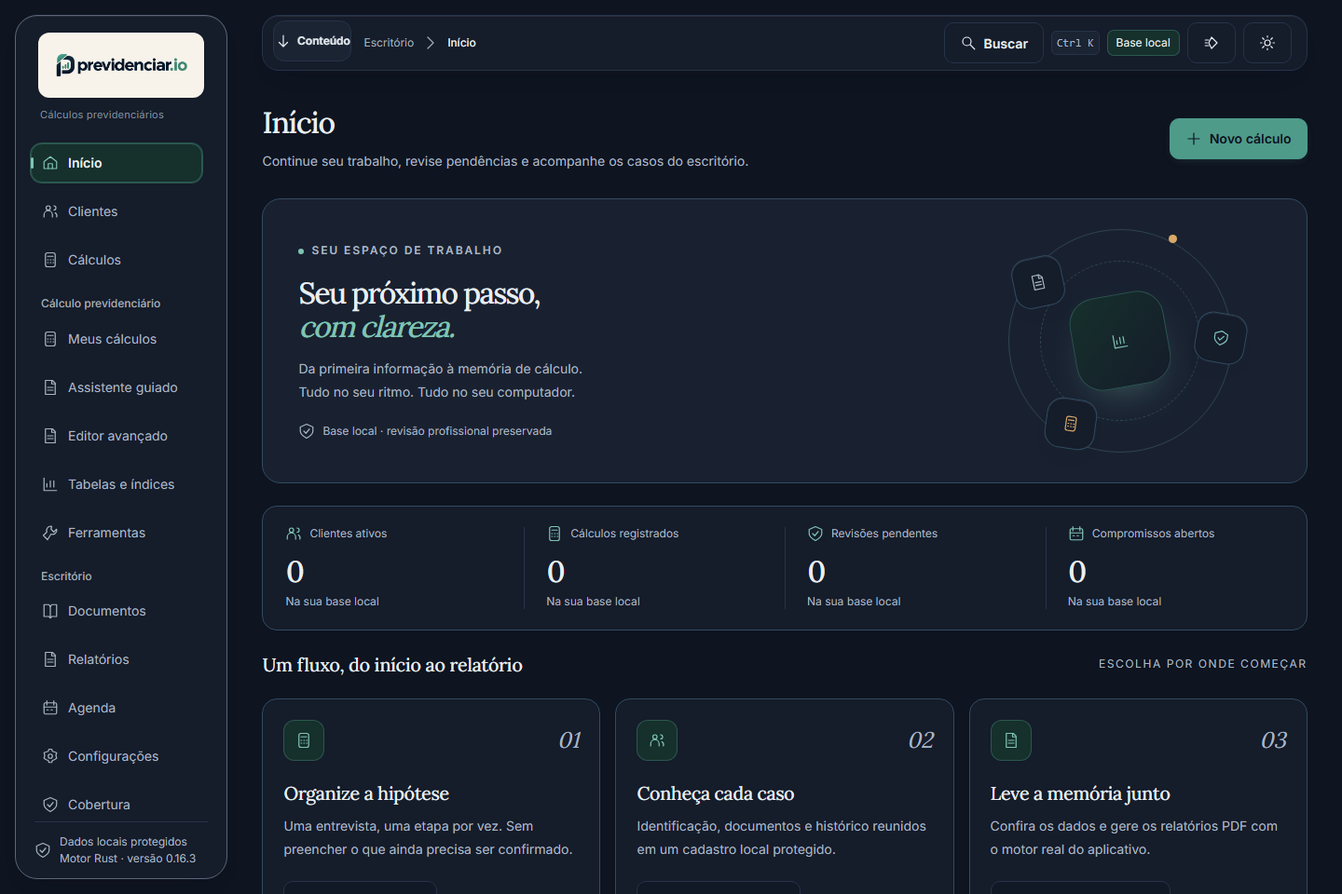
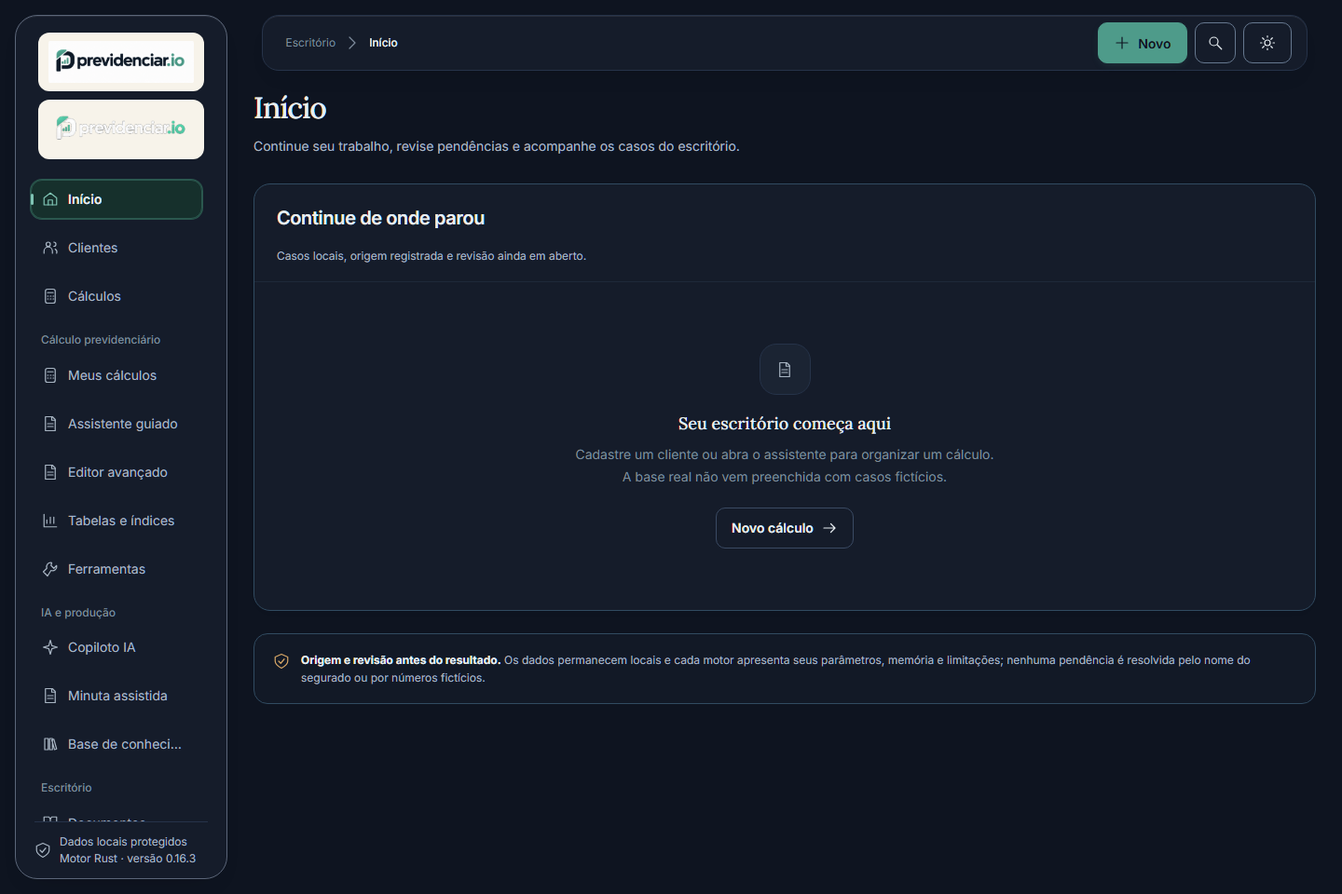
test: alinha a interface ao fluxo real do assistente e atualiza a captura do README

diff --git a/apps/desktop/src/App.tsx b/apps/desktop/src/App.tsx
@@ -36,7 +36,7 @@ async function saveTable(){if(!table)return;if(!table.name.trim()){failForm('Inf
 async function addLabels(){const next=structuredClone(w);for(const label of REFERENCE_LABELS){if(!next.reference_tables.some(t=>t.name===label)){const id=allocate(next);next.reference_tables.push({id,name:label,unit:'A confirmar',periodicity:'A confirmar',entries:[],provenance:'Rótulo observado; sem valores importados',verified:false});next.next_id=id+1}}try{await commit(next)}catch{/* shown */}}
 const selectedCase=w.calculations.find(c=>c.id===selected)??null;const openLoop=w.calculations.filter(c=>!c.archived&&c.id>0&&c.assistant?.mode==='assisted'&&!hasFinancialResult(c)).slice(-1)[0]??null;const resume=openLoop?assistantResume(openLoop):null;const clientRows=w.clients.filter(c=>(archived||!c.archived)&&[c.name,c.cpf,c.email,c.phone].join(' ').toLocaleLowerCase().includes(search.toLocaleLowerCase()));const caseRows=w.calculations.filter(c=>(page!=='rgps'||c.kind==='RGPS')&&(archived||!c.archived)&&(filterKind==='Todos os módulos'||c.kind===filterKind)&&[c.name,c.kind,c.status].join(' ').toLocaleLowerCase().includes(search.toLocaleLowerCase()));
 if(!ready)return <div className="loading-screen" role="status" aria-live="polite" data-od-id="initial-loading"><div className="brand-name">previdenciar.io</div><div className="busy-inline"><MotionLoader/>Abrindo a base local protegida...</div></div>;
-return <div className="previdenciar-app" data-od-id="previdenciar-shell"><a className="skip-link" aria-label="Ir para o conteúdo" title="Ir para o conteúdo" href="#main-content" data-od-id="skip-to-content" onClick={e=>{e.preventDefault();mainRef.current?.focus({preventScroll:true})}}><Icon name="arrow" size={18}/><span>Conteúdo</span></a><aside className="app-side" hidden={mobileLayout} data-od-id="desktop-navigation"><div className="brand-link"><img className="brand-logo brand-logo-light" src="/brand-logo-light.png" alt="previdenciar.io"/><img className="brand-logo brand-logo-dark" src="/brand-logo-dark.png" alt=""/></div><nav className="side-nav" aria-label="Navegação principal">{NAV.map(n=><div key={n.id}>{n.group&&<div className="nav-group">{n.group}</div>}<button className={'side-link '+(page===n.id?'active':'')} aria-current={page===n.id?'page':undefined} title={n.full??n.label} aria-label={n.full??n.label} data-od-id={'nav-'+n.id} onClick={()=>go(n.id)}>{page===n.id&&<NavIndicator id="desktop-active-page"/>}<Icon name={n.icon}/><span className="side-label">{n.label}</span></button></div>)}</nav><div className="side-foot"><Icon name="shield" size={18}/><span>Dados locais protegidos<br/>Motor Rust · versão {__APP_VERSION__}</span></div></aside><header className="top-chrome" data-od-id="office-toolbar"><span className="chrome-mobile-brand"><img src="/brand-icon.png" alt="" aria-hidden="true"/><span>previdenciar.io</span></span><div className="breadcrumb">Escritório<Icon name="chevron" size={13}/><strong>{NAV.find(n=>n.id===page)?.full??NAV.find(n=>n.id===page)?.label}</strong></div><span className="sr-only" role="status">{saving?'Salvando...':storageReady?'Base local':'Base indisponível'}</span><div className="chrome-actions" data-ui-actions><Button primary className="chrome-new" onClick={()=>start()}><Icon name="plus" size={17}/><span>Novo</span></Button><Button className="btn-icon" aria-label="Buscar no escritório" title="Buscar no escritório" onClick={()=>setPalette(true)}><Icon name="search" size={18}/></Button><Button aria-label="Alternar tema" aria-pressed={w.settings.light_theme} title={w.settings.light_theme?'Ativar tema escuro':'Ativar tema claro'} onClick={()=>{document.documentElement.dataset.themeSwitching='true';setW({...w,settings:{...w.settings,light_theme:!w.settings.light_theme}});setTimeout(()=>{delete document.documentElement.dataset.themeSwitching},260)}}><Icon name="sun" size={18}/></Button></div></header><main ref={mainRef} id="main-content" tabIndex={-1} className="app-content" data-od-id="main-workspace">{toast&&!toast.error&&<ToastMessage toast={toast} onClose={()=>setToast(null)}/>}<PageTransition className="page-wrap" key={page} pointer={routeMotion==='pointer'} page={page}><header className="page-head"><div><div className="eyebrow">{page==='wizard'?'Cálculo previdenciário':'Escritório · previdenciar.io'}</div><h1 tabIndex={-1} data-od-id={'heading-'+page}>{NAV.find(n=>n.id===page)?.full??NAV.find(n=>n.id===page)?.label}</h1><p>{DESCRIPTIONS[page]}</p></div><div className="head-actions" data-ui-actions>{(page==='cases'||page==='rgps')&&caseRows.length>0?<Button primary onClick={()=>start()}><Icon name="plus" size={17}/>Novo cálculo</Button>:page==='clients'&&clientRows.length>0?<Button primary onClick={()=>setClient(blankClient())}><Icon name="plus" size={17}/>Novo cliente</Button>:null}</div></header>{!storageReady&&<Notice tone="error">A base local não pôde ser aberta com segurança. Cadastros e gravações estão bloqueados; o arquivo existente não será sobrescrito.</Notice>}
+return <div className="previdenciar-app" data-od-id="previdenciar-shell"><a className="skip-link" aria-label="Ir para o conteúdo" title="Ir para o conteúdo" href="#main-content" data-od-id="skip-to-content" onClick={e=>{e.preventDefault();mainRef.current?.focus({preventScroll:true})}}><Icon name="arrow" size={18}/><span>Conteúdo</span></a><aside className="app-side" hidden={mobileLayout} data-od-id="desktop-navigation"><div className="brand-link"><img className="brand-logo brand-logo-light" src="/brand-logo-light.png" alt="previdenciar.io"/><img className="brand-logo brand-logo-dark" src="/brand-logo-dark.png" alt=""/></div><nav className="side-nav" aria-label="Navegação principal">{NAV.map(n=><div key={n.id}>{n.group&&<div className="nav-group">{n.group}</div>}<button className={'side-link '+(page===n.id?'active':'')} aria-current={page===n.id?'page':undefined} title={n.full??n.label} aria-label={n.full??n.label} data-od-id={'nav-'+n.id} onClick={()=>go(n.id)}>{page===n.id&&<NavIndicator id="desktop-active-page"/>}<Icon name={n.icon}/><span className="side-label">{n.label}</span></button></div>)}</nav><div className="side-foot"><Icon name="shield" size={18}/><span>Dados locais protegidos<br/>Motor Rust · versão {__APP_VERSION__}</span></div></aside><header className="top-chrome" data-od-id="office-toolbar"><span className="chrome-mobile-brand"><img src="/brand-icon.png" alt="" aria-hidden="true"/><span>previdenciar.io</span></span><div className="breadcrumb">Escritório<Icon name="chevron" size={13}/><strong>{NAV.find(n=>n.id===page)?.full??NAV.find(n=>n.id===page)?.label}</strong></div><span className="sr-only" role="status">{saving?'Salvando...':storageReady?'Base local':'Base indisponível'}</span><div className="chrome-actions" data-ui-actions><Button primary className="chrome-new" aria-label="Novo cálculo no escritório" title="Novo cálculo no escritório" onClick={()=>start()}><Icon name="plus" size={17}/><span>Novo</span></Button><Button className="btn-icon" aria-label="Buscar no escritório" title="Buscar no escritório" onClick={()=>setPalette(true)}><Icon name="search" size={18}/></Button><Button aria-label="Alternar tema" aria-pressed={w.settings.light_theme} title={w.settings.light_theme?'Ativar tema escuro':'Ativar tema claro'} onClick={()=>{document.documentElement.dataset.themeSwitching='true';setW({...w,settings:{...w.settings,light_theme:!w.settings.light_theme}});setTimeout(()=>{delete document.documentElement.dataset.themeSwitching},260)}}><Icon name="sun" size={18}/></Button></div></header><main ref={mainRef} id="main-content" tabIndex={-1} className="app-content" data-od-id="main-workspace">{toast&&!toast.error&&<ToastMessage toast={toast} onClose={()=>setToast(null)}/>}<PageTransition className="page-wrap" key={page} pointer={routeMotion==='pointer'} page={page}><header className="page-head"><div><div className="eyebrow">{page==='wizard'?'Cálculo previdenciário':'Escritório · previdenciar.io'}</div><h1 tabIndex={-1} data-od-id={'heading-'+page}>{NAV.find(n=>n.id===page)?.full??NAV.find(n=>n.id===page)?.label}</h1><p>{DESCRIPTIONS[page]}</p></div><div className="head-actions" data-ui-actions>{(page==='cases'||page==='rgps')&&caseRows.length>0?<Button primary onClick={()=>start()}><Icon name="plus" size={17}/>Novo cálculo</Button>:page==='clients'&&clientRows.length>0?<Button primary onClick={()=>setClient(blankClient())}><Icon name="plus" size={17}/>Novo cliente</Button>:null}</div></header>{!storageReady&&<Notice tone="error">A base local não pôde ser aberta com segurança. Cadastros e gravações estão bloqueados; o arquivo existente não será sobrescrito.</Notice>}
 {page==='home'&&openLoop&&resume&&<Panel title="Retomar revisão" subtitle="Um caso já começado, com o próximo passo identificado." actions={<Badge tone="review">Em aberto</Badge>}><div className="work-item"><span className="work-icon"><Icon name="calc"/></span><div className="work-copy"><strong>{openLoop.name}</strong><p>Você parou em “{resume.label}” · {resume.completed} de {resume.total} etapas registradas. Quando quiser, continue exatamente daqui.</p></div><Button primary onClick={()=>openCase(openLoop)}>Retomar de onde parei<Icon name="arrow" size={16}/></Button></div></Panel>}
 {page==='home'&&<><div className={'cockpit'+(w.appointments.filter(a=>!a.completed).length?'':' single')}><Panel title="Continue de onde parou" subtitle="Casos locais, origem registrada e revisão ainda em aberto." actions={w.calculations.filter(c=>!c.archived).length?<Button onClick={()=>go('cases')}>Ver cálculos<Icon name="arrow" size={15}/></Button>:undefined}>{w.calculations.filter(c=>!c.archived).length?w.calculations.filter(c=>!c.archived).slice(-5).reverse().map(c=><div className="work-item" key={c.id}><span className="work-icon"><Icon name="calc"/></span><div className="work-copy"><strong>{c.name}</strong><p>{c.kind} · {c.scenario}</p></div><Badge tone={hasFinancialResult(c)?'good':(c.result as {status?:string}|null)?.status==='blocked'?'error':/Rascunho|Dados conferidos/.test(c.status)?'neutral':'review'}>{hasFinancialResult(c)?'Calculado':(c.result as {status?:string}|null)?.status==='blocked'?'Bloqueado':'Revisão'}</Badge><Button aria-label={'Abrir '+c.name} onClick={()=>openCase(c)}><Icon name="arrow" size={17}/></Button></div>):<Empty title="Seu escritório começa aqui" description="Cadastre um cliente ou abra o assistente para organizar um cálculo. A base real não vem preenchida com casos fictícios." action={<Button primary onClick={()=>start()}>Novo cálculo<Icon name="arrow" size={16}/></Button>}/>}</Panel><div className="cockpit-stack"><Panel title="Próximos compromissos">{w.appointments.filter(a=>!a.completed).slice(0,3).map(a=><div className="work-item" key={a.id}><Icon name="calendar" size={18}/><div className="work-copy"><strong>{a.title}</strong><p>{a.date} · {a.time}</p></div></div>)}{w.appointments.filter(a=>!a.completed).length===0&&<p className="secondary-line">Nenhum compromisso aberto.</p>}{w.appointments.filter(a=>!a.completed).length>0&&<Button onClick={()=>go('agenda')}>Abrir agenda<Icon name="arrow" size={15}/></Button>}</Panel></div></div>{w.calculations.some(c=>!c.archived)&&<DashboardOverview workspace={w} onStart={()=>start()} onClient={()=>setClient(blankClient())} onReports={()=>go('reports')}/>}<div className="quiet-banner"><Icon name="shield"/><p><strong>Origem e revisão antes do resultado.</strong> Os dados permanecem locais e cada motor apresenta seus parâmetros, memória e limitações; nenhuma pendência é resolvida pelo nome do segurado ou por números fictícios.</p></div></>}
 {page==='clients'&&<><div className="toolbar"><Search value={search} onChange={setSearch} placeholder="Pesquisar nome, CPF, e-mail ou telefone"/><label className="checkline"><input type="checkbox" checked={archived} onChange={e=>setArchived(e.target.checked)}/>Incluir arquivados</label><span className="count">{clientRows.length} clientes</span></div>{clientRows.length?<div className="table-wrap"><table className="data-table"><thead><tr><th>Cliente</th><th>CPF / CNPJ</th><th>Contato</th><th>Cálculos</th><th>Situação</th><th>Ações</th></tr></thead><tbody>{clientRows.map(c=><tr key={c.id}><td><strong>{c.name}</strong><div className="secondary-line">{c.birth_date||'Nascimento não informado'}</div></td><td>{c.cpf||'Sem dado'}</td><td>{c.email||'Sem dado'}<div className="secondary-line">{c.phone}</div></td><td>{w.calculations.filter(x=>x.client_id===c.id&&!x.archived).length}</td><td><Badge tone={c.archived?'neutral':'good'}>{c.archived?'Arquivado':'Ativo'}</Badge></td><td><div className="row-actions" data-ui-actions><Button onClick={()=>setClient(structuredClone(c))}>Editar</Button><Button onClick={()=>{setDraft({...blankCase(),client_id:c.id,identity:{...blankCase().identity,full_name:c.name,cpf:c.cpf||null,birth_date:c.birth_date?isoDate(c.birth_date):null},sex:c.sex});setSelected(null);go('wizard')}}>Novo cálculo</Button><Button onClick={()=>void archiveClient(c)}>{c.archived?'Reativar':'Arquivar'}</Button></div></td></tr>)}</tbody></table></div>:<Panel title="Cadastro de clientes"><Empty title={search?'Nenhum cliente encontrado':'Nenhum cliente cadastrado'} description="Inclua um cliente para vincular suas simulações, documentos e compromissos." action={<Button primary onClick={()=>setClient(blankClient())}>Novo cliente</Button>}/></Panel>}</>}

diff --git a/apps/desktop/tests/e2e/robot-entry.spec.ts b/apps/desktop/tests/e2e/robot-entry.spec.ts
@@ -2,5 +2,22 @@ import{test,expect}from'@playwright/test';import{blankWorkspace,blankCase,blankI
 async function bridge(page:import('@playwright/test').Page){const w=blankWorkspace();await page.addInitScript(workspace=>{let saved=workspace;const identity={full_name:'Pessoa Fictícia Robô UI',cpf:null,nit:null,birth_date:'1962-03-10',mother_name:null};const cnis={metadata:{page_count:1,source_sha256:null,extractor:'Synthetic UI fixture'},identity,salary_entries:[{competence:'2020-01',amount_centavos:200000,indicators:['PRPPS'],link_sequence:1,source:{page:1,line:1,index:1},excluded_from_validated_domain:true}],salary_months:{'2020-01':{count:1,amount_sum_centavos:200000,contains_unresolved_prpps:true}},links:[{sequence:1,raw_employer:'EMPREGADOR FICTÍCIO',start_date:'2020-01-01',end_date:null,prpps:true,indicators:['PRPPS'],reported_last_salary_month:'2020-01',inferred_last_salary_end:{date_candidate:'2020-01-31',requires_confirmation:true},source:{page:1}}],benefits:[],warnings:[{code:'unresolved_prpps',message:'Synthetic',count:1}],findings:[]};Object.defineProperty(window,'__TAURI_INTERNALS__',{value:{invoke:async(cmd:string,args:Record<string,unknown>)=>{if(cmd==='bootstrap')return{workspace:saved,storage_ready:true,message:null};if(cmd==='save_workspace'){saved={...(args.workspace as typeof workspace),revision:saved.revision+1};return saved}if(cmd==='pick_import_cnis'||cmd==='import_cnis_path')return cnis;if(cmd==='calculate_case')return{status:'blocked',data:null,blockers:[{message:'PRPPS e datas abertas exigem revisão documental.'}],warnings:['Synthetic UI IPC fixture; not a Rust computation']};throw new Error('Unexpected test command '+cmd)}}});},w)}
 async function start(page:import('@playwright/test').Page){await bridge(page);await page.goto('/',{waitUntil:'domcontentloaded'});await page.getByRole('button',{name:'Meus cálculos',exact:true}).click();await page.getByRole('button',{name:'Novo cálculo',exact:true}).click();await expect(page.getByRole('dialog',{name:'Novo cálculo'})).toBeVisible();await page.screenshot({path:'verification/ui-new-calculation-assistant-choice.png',fullPage:true});await page.getByRole('button',{name:'Usar o assistente de cálculos',exact:true}).click();await expect(page.getByText(/Olá! Sou seu assistente/)).toBeVisible();}
 test('requested exact entry is visible, calm interview starts only after choosing the assistant',async({page})=>{await start(page);await expect(page.getByRole('button',{name:'Prosseguir',exact:true})).toBeDisabled();await page.getByLabel('Nome do cálculo',{exact:true}).fill('Teste Sintético Robô');await page.getByRole('button',{name:'Prosseguir',exact:true}).click();await expect(page.getByRole('button',{name:/Não, o segurado não está recebendo benefício/})).toBeVisible();await page.screenshot({path:'verification/ui-robot-benefit-question.png',fullPage:true});});
-test('CNIS-shaped fixture is imported then requires unknown facts, all later panels and blocks are exercised',async({page})=>{await start(page);await page.getByLabel('Nome do cálculo',{exact:true}).fill('Teste Sintético Importação Robô');await page.getByRole('button',{name:'Prosseguir',exact:true}).click();await page.getByRole('button',{name:/Não, o segurado não está recebendo benefício/}).click();await page.getByRole('button',{name:/Sim, desejo importar dados do INSS/}).click();await page.getByRole('button',{name:/Selecionar CNIS PDF/}).click();await expect(page.getByRole('button',{name:'Aplicar CNIS e continuar',exact:true})).toBeVisible();await page.screenshot({path:'verification/ui-robot-cnis-review-synthetic.png',fullPage:true});await page.getByRole('button',{name:'Aplicar CNIS e continuar',exact:true}).click();await page.getByRole('button',{name:/Simular um novo benefício/}).click();await page.getByRole('button',{name:/Calcular um novo benefício/}).click();await expect(page.getByLabel('Sexo cadastral do segurado')).toHaveValue('');await expect(page.getByLabel('Deficiência na DIB')).toHaveValue('');await expect(page.getByRole('button',{name:'Prosseguir para a conferência',exact:true})).toBeDisabled();await page.screenshot({path:'verification/ui-robot-parameters-missing.png',fullPage:true});await page.getByLabel('Sexo cadastral do segurado').selectOption('Feminino');await page.getByLabel('Deficiência na DIB').selectOption('Sem deficiência declarada');await page.getByRole('button',{name:'Prosseguir para a conferência',exact:true}).click();await expect(page.getByText('PRPPS / CTC pendente',{exact:true})).toBeVisible();await page.getByRole('button',{name:'Conferir remunerações',exact:true}).click();await page.getByRole('button',{name:'Conferir opções da RMI',exact:true}).click();await page.getByRole('button',{name:'Revisar entrevista',exact:true}).click();await expect(page.getByRole('button',{name:'Ir para a execução',exact:true})).toBeDisabled();await page.getByRole('checkbox',{name:/Conferi as respostas/}).check();await page.getByRole('button',{name:'Ir para a execução',exact:true}).click();await page.getByRole('button',{name:/Executar cálculo da hipótese/}).click();await expect(page.getByRole('heading',{name:'Execução bloqueada'})).toBeVisible();await expect(page.getByText('PRPPS e datas abertas exigem revisão documental.',{exact:true})).toBeVisible();await page.screenshot({path:'verification/ui-robot-reviewed-blocked.png',fullPage:true});});
-test('already saved assisted case resumes, manual entry still available and drafting retains interview',async({page})=>{const workspace=blankWorkspace();const c={...blankCase(),id:1,name:'Entrevista Sintética Salva',assistant:{...blankInterview(),current_benefit_received:false,import_requested:false,process_kind:'Simulação do benefício',goal:'Calcular um novo benefício',review_confirmed:false,completed_steps:['intro','benefit','import','process','goal']},identity:{full_name:'Pessoa Fictícia',cpf:null,nit:null,birth_date:'1962-03-10',mother_name:null}};workspace.calculations=[c];await page.addInitScript(w=>Object.defineProperty(window,'__TAURI_INTERNALS__',{value:{invoke:async(cmd:string,args:Record<string,unknown>)=>cmd==='bootstrap'?{workspace:w,storage_ready:true,message:null}:cmd==='save_workspace'?{...(args.workspace as typeof w),revision:1}:null}}),workspace);await page.goto('/',{waitUntil:'domcontentloaded'});await page.getByRole('button',{name:'Abrir Entrevista Sintética Salva',exact:true}).click();await expect(page.getByLabel('Sexo cadastral do segurado')).toHaveValue('');await page.getByRole('button',{name:'Salvar rascunho',exact:true}).click();await expect(page.getByText('Alterações salvas na base local protegida.',{exact:true})).toBeVisible();await page.getByRole('button',{name:'Abrir editor de dados',exact:true}).click();await expect(page.getByRole('heading',{name:'Editor avançado',level:1})).toBeVisible();});
+test('CNIS-shaped fixture is imported then requires unknown facts, all later panels and blocks are exercised',async({page})=>{await start(page);await page.getByLabel('Nome do cálculo',{exact:true}).fill('Teste Sintético Importação Robô');await page.getByRole('button',{name:'Prosseguir',exact:true}).click();await page.getByRole('button',{name:/Não, o segurado não está recebendo benefício/}).click();await page.getByRole('button',{name:/Sim, desejo importar dados do INSS/}).click();await page.getByRole('button',{name:/Selecionar CNIS PDF/}).click();await expect(page.getByRole('button',{name:'Aplicar CNIS e continuar',exact:true})).toBeVisible();await page.screenshot({path:'verification/ui-robot-cnis-review-synthetic.png',fullPage:true});await page.getByRole('button',{name:'Aplicar CNIS e continuar',exact:true}).click();await page.getByRole('button',{name:/Simular um novo benefício/}).click();await page.getByRole('button',{name:/Calcular um novo benefício/}).click();
+// O assistente mostra um parâmetro por tela: o sexo vem primeiro e a deficiência
+// só aparece depois de confirmar o sexo. A navegação segue esse fluxo real.
+const sex=page.getByLabel('Sexo cadastral do segurado');
+await expect(sex).toHaveValue('');await expect(page.getByLabel('Deficiência na DIB')).toHaveCount(0);
+await expect(page.getByRole('button',{name:'Confirmar e avançar',exact:true})).toBeDisabled();
+await page.screenshot({path:'verification/ui-robot-parameters-missing.png',fullPage:true});
+await sex.selectOption('Feminino');await page.getByRole('button',{name:'Confirmar e avançar',exact:true}).click();
+const disability=page.getByLabel('Deficiência na DIB');
+await expect(disability).toHaveValue('');await expect(page.getByLabel('Sexo cadastral do segurado')).toHaveCount(0);
+await expect(page.getByRole('button',{name:'Ir para a conferência',exact:true})).toBeDisabled();
+await disability.selectOption('Sem deficiência declarada');await page.getByRole('button',{name:'Ir para a conferência',exact:true}).click();
+await expect(page.getByText('PRPPS / CTC pendente',{exact:true})).toBeVisible();await page.getByRole('button',{name:'Conferir remunerações',exact:true}).click();await page.getByRole('button',{name:'Conferir opções da RMI',exact:true}).click();await page.getByRole('button',{name:'Revisar entrevista',exact:true}).click();await expect(page.getByRole('button',{name:'Ir para a execução',exact:true})).toBeDisabled();await page.getByRole('checkbox',{name:/Conferi as respostas/}).check();await page.getByRole('button',{name:'Ir para a execução',exact:true}).click();await page.getByRole('button',{name:/Executar cálculo da hipótese/}).click();await expect(page.getByRole('heading',{name:'Execução bloqueada'})).toBeVisible();await expect(page.getByText('PRPPS e datas abertas exigem revisão documental.',{exact:true})).toBeVisible();await page.screenshot({path:'verification/ui-robot-reviewed-blocked.png',fullPage:true});});
+test('already saved assisted case resumes, manual entry still available and drafting retains interview',async({page})=>{const workspace=blankWorkspace();const c={...blankCase(),id:1,name:'Entrevista Sintética Salva',assistant:{...blankInterview(),current_benefit_received:false,import_requested:false,process_kind:'Simulação do benefício',goal:'Calcular um novo benefício',review_confirmed:false,completed_steps:['intro','benefit','import','process','goal']},identity:{full_name:'Pessoa Fictícia',cpf:null,nit:null,birth_date:'1962-03-10',mother_name:null}};workspace.calculations=[c];await page.addInitScript(w=>Object.defineProperty(window,'__TAURI_INTERNALS__',{value:{invoke:async(cmd:string,args:Record<string,unknown>)=>cmd==='bootstrap'?{workspace:w,storage_ready:true,message:null}:cmd==='save_workspace'?{...(args.workspace as typeof w),revision:1}:null}}),workspace);await page.goto('/',{waitUntil:'domcontentloaded'});await page.getByRole('button',{name:'Abrir Entrevista Sintética Salva',exact:true}).click();await expect(page.getByLabel('Sexo cadastral do segurado')).toHaveValue('');await page.getByRole('button',{name:'Salvar rascunho',exact:true}).click();await expect(page.getByText('Alterações salvas na base local protegida.',{exact:true})).toBeVisible();
+// A retomada cai na etapa de parâmetro, um campo por tela. O rodapé com a
+// entrada manual só existe fora dessa etapa, então o fluxo real é concluir os
+// parâmetros pendentes antes de procurar o botão.
+await page.getByLabel('Sexo cadastral do segurado').selectOption('Feminino');await page.getByRole('button',{name:'Confirmar e avançar',exact:true}).click();await page.getByLabel('Deficiência na DIB').selectOption('Sem deficiência declarada');await page.getByRole('button',{name:'Ir para a conferência',exact:true}).click();await expect(page.getByRole('heading',{name:'Confirme as respostas da entrevista'})).toBeVisible();
+await page.getByRole('button',{name:'Abrir editor de dados',exact:true}).click();await expect(page.getByRole('heading',{name:'Editor avançado',level:1})).toBeVisible();});

diff --git a/apps/desktop/tests/e2e/pdf-export.spec.ts b/apps/desktop/tests/e2e/pdf-export.spec.ts
@@ -1,3 +1,3 @@
 import{test,expect}from'@playwright/test';import{blankWorkspace,blankCase,blankInterview}from'../../src/model';
-test('end of assistant exposes detailed PDF formats and explicit private export through IPC',async({page})=>{const w=blankWorkspace();w.calculations=[{...blankCase(),id:1,name:'Teste Sintético PDF Final',assistant:{...blankInterview(),current_benefit_received:false,import_requested:false,process_kind:'Simulação do benefício',goal:'Calcular um novo benefício',review_confirmed:true,completed_steps:['intro','benefit','import','process','goal','parameters','periods','salaries','policy','review','result']},result:{status:'experimental',data:{native_result:{resumo:{rmi:'1600.00'},memoria:[]}},warnings:[]}}];await page.addInitScript(workspace=>{Object.defineProperty(window,'__TAURI_INTERNALS__',{value:{invoke:async(cmd:string,args:Record<string,unknown>)=>{if(cmd==='bootstrap')return{workspace,storage_ready:true,message:null};if(cmd==='export_report'){(window as unknown as {__pdfTestArgs:unknown}).__pdfTestArgs=args;return'C:\\destino-sintetico\\relatorio.pdf'}throw new Error('Unexpected test command '+cmd)}}})},w);await page.goto('/',{waitUntil:'domcontentloaded'});await page.getByRole('button',{name:'Abrir Teste Sintético PDF Final',exact:true}).click();await expect(page.getByRole('heading',{name:'Relatórios detalhados em PDF'})).toBeVisible();const select=page.getByLabel('Tipo de relatório PDF');await expect(select).toHaveValue('pdf_detailed');await expect(select.locator('option')).toHaveCount(8);await expect(select.locator('option',{hasText:'Qualidade de segurado'})).toHaveCount(1);await expect(select.locator('option[value="pdf_quality"]')).toHaveCount(1);await page.getByRole('button',{name:'Gerar relatório PDF detalhado'}).click();await expect(page.getByText('Relatório completo gerado localmente. Confira os avisos e o estado da hipótese.',{exact:true})).toBeVisible();const args=await page.evaluate(()=>((window as unknown as {__pdfTestArgs:unknown}).__pdfTestArgs))as {format:string;includePersonal:boolean};expect(args.format).toBe('pdf_detailed');expect(args.includePersonal).toBe(false);await page.screenshot({path:'verification/ui-assistant-final-pdf.png',fullPage:true});});
+test('end of assistant exposes detailed PDF formats and explicit private export through IPC',async({page})=>{const w=blankWorkspace();w.calculations=[{...blankCase(),id:1,name:'Teste Sintético PDF Final',assistant:{...blankInterview(),current_benefit_received:false,import_requested:false,process_kind:'Simulação do benefício',goal:'Calcular um novo benefício',review_confirmed:true,completed_steps:['intro','benefit','import','process','goal','parameters','periods','salaries','policy','review','result']},result:{status:'experimental',data:{native_result:{resumo:{rmi:'1600.00'},memoria:[]}},warnings:[]}}];await page.addInitScript(workspace=>{Object.defineProperty(window,'__TAURI_INTERNALS__',{value:{invoke:async(cmd:string,args:Record<string,unknown>)=>{if(cmd==='bootstrap')return{workspace,storage_ready:true,message:null};if(cmd==='export_report'){(window as unknown as {__pdfTestArgs:unknown}).__pdfTestArgs=args;return'C:\\destino-sintetico\\relatorio.pdf'}throw new Error('Unexpected test command '+cmd)}}})},w);await page.goto('/',{waitUntil:'domcontentloaded'});await page.getByRole('button',{name:'Abrir Teste Sintético PDF Final',exact:true}).click();await expect(page.getByRole('heading',{name:'Relatórios detalhados em PDF'})).toBeVisible();const select=page.getByLabel('Tipo de relatório PDF');await expect(select).toHaveValue('pdf_detailed');await expect(select.locator('option')).toHaveCount(8);await expect(select.locator('option',{hasText:'Qualidade de segurado'})).toHaveCount(1);await expect(select.locator('option[value="pdf_quality"]')).toHaveCount(1);await page.getByRole('button',{name:'Gerar relatório PDF detalhado'}).click();await expect(page.getByText('PDF detalhado gerado localmente. Confira os avisos e o estado da hipótese.',{exact:true})).toBeVisible();const args=await page.evaluate(()=>((window as unknown as {__pdfTestArgs:unknown}).__pdfTestArgs))as {format:string;includePersonal:boolean};expect(args.format).toBe('pdf_detailed');expect(args.includePersonal).toBe(false);await page.screenshot({path:'verification/ui-assistant-final-pdf.png',fullPage:true});});
 test('report center defaults to PDF and preserves alternate detailed categories',async({page})=>{const w=blankWorkspace();w.calculations=[{...blankCase(),id:1,name:'Caso Fictício para Relatórios'}];await page.addInitScript(workspace=>Object.defineProperty(window,'__TAURI_INTERNALS__',{value:{invoke:async(cmd:string)=>cmd==='bootstrap'?{workspace,storage_ready:true,message:null}:null}}),w);await page.goto('/',{waitUntil:'domcontentloaded'});await page.getByRole('button',{name:'Relatórios',exact:true}).click();await page.getByLabel('Selecionar cálculo',{exact:true}).selectOption('1');const format=page.getByLabel('Formato',{exact:true});await expect(format).toHaveValue('pdf_detailed');for(const v of['pdf_summary','pdf_periods','pdf_salaries','pdf_memory','pdf_transitions','pdf_indicators','pdf_quality']){await format.selectOption(v);await expect(format).toHaveValue(v)}await page.screenshot({path:'verification/ui-pdf-report-center.png',fullPage:true});});

diff --git a/apps/desktop/tests/e2e/amicro.spec.ts b/apps/desktop/tests/e2e/amicro.spec.ts
@@ -23,7 +23,7 @@ for (const width of [1440, 1152, 768, 390, 320]) {
   test('Amicro routes remain readable at ' + width + 'px', async ({ page }) => {
     await page.setViewportSize({ width, height: 1000 });
     await start(page);
-    const routes = ['Início', 'Clientes', 'Cálculos', 'Meus cálculos', 'Assistente guiado', 'Editor avançado', 'Tabelas e índices', 'Ferramentas', 'Documentos', 'Relatórios', 'Agenda', 'Configurações', 'Cobertura'];
+    const routes = ['Início', 'Clientes', 'Cálculos', 'Meus cálculos', 'Assistente guiado', 'Editor avançado', 'Tabelas e índices', 'Ferramentas', 'Documentos', 'Relatórios', 'Agenda', 'Configurações', 'Cobertura e validação'];
     for (const route of routes) {
       if (width < 1024) {
         await page.getByRole('button', { name: 'Todas as páginas', exact: true }).click();
